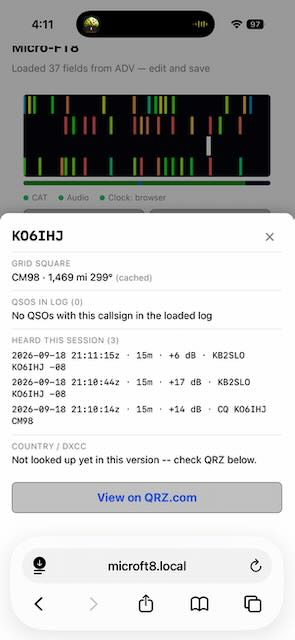
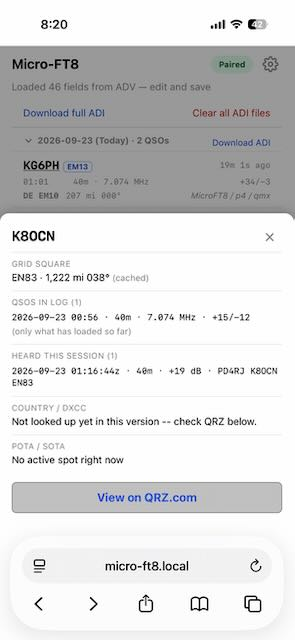
Public site: refresh screenshots and copy for the Tools tab, offline map, and callsign card, and make clear the phone is a remote the station doesn't need (B78)

diff --git a/webapp/index.html b/webapp/index.html
@@ -67,7 +67,7 @@
     grid-template-columns: 1fr 1fr;
   }
   @media (min-width: 640px) {
-    .gallery.screens { grid-template-columns: repeat(4, 1fr); }
+    .gallery.screens { grid-template-columns: repeat(3, 1fr); }
   }
   .gallery figure {
     margin: 0;
@@ -273,8 +273,10 @@
     A continuation of Wei&nbsp;AG6AQ’s
     <a href="https://github.com/wcheng95/Mini-FT8">Mini-FT8</a>
     — the same QRP FT8 portable station for QMX and QDX —
-    with a new operating model: <strong>any browser on the same Wi‑Fi is the UI</strong>
-    — phone, tablet, or laptop.
+    with a new operating model: <strong>your phone is a wireless remote, not the
+    station</strong>. Any browser on the station’s Wi‑Fi — phone, tablet, or laptop —
+    sets it up and watches it work. Close the page, use other apps, or step away from
+    the table: CQs and the auto-sequencer keep running on the station.
   </p>
   <p class="byline">Jeff Kalikstein, KB2SLO · September 2026</p>
   <p class="byline">
@@ -307,7 +309,8 @@
         <strong>Full headless</strong> —
         <strong>M5Stack Unit PoE-P4</strong> as the radio host, the same AtomS3&nbsp;Lite as
         the Wi‑Fi companion, <strong>no keyboard and no screen</strong>. All of the compute
-        fits in <strong>35&nbsp;grams</strong>. Phone, tablet, or laptop only. This path has
+        fits in <strong>35&nbsp;grams</strong>. Set up and check in from a phone, tablet, or
+        laptop; no need to keep the page open. This path has
         completed real FT8 QSOs on the air.
       </li>
     </ol>
@@ -377,48 +380,77 @@
       Join the Atom’s own Wi‑Fi network directly (no router needed — a summit has
       no camp router any more than it has cell service), or put it on your home
       or camp network instead. Either way: no app-store install, just Safari or
-      Chrome on a phone, tablet, or laptop.
+      Chrome on a phone, tablet, or laptop. Three tabs: <strong>Operate</strong> drives
+      the radio, <strong>QSOs</strong> is your log, <strong>Tools</strong> is everything
+      about operating that isn’t transmitting.
+    </p>
+    <p class="note">
+      <strong>The phone is optional once you’re set up.</strong> The station talks to the
+      phone over Wi‑Fi, but the decoding, CQ beacon, and QSO sequencing all run on the
+      station itself. Pocket the phone, switch apps, or step away from the table, and the
+      station keeps calling CQ, working callers, and logging. Open the page again to
+      catch up.
     </p>
     <div class="gallery screens" id="screen-gallery">
       <figure>
         <button type="button" class="shot" data-index="0" aria-label="Enlarge Operate screenshot">
           <img
             src="img/ui-operate.jpeg"
-            alt="Micro-FT8 Operate tab showing Connect, Tune, queue, and transmitting status"
+            alt="Operate tab calling CQ at 4.8 W, SWR 1.04, with link status, queue, and a live decode"
             width="295"
             height="640">
         </button>
-        <figcaption>Operate — connect, tune, queue, TX.</figcaption>
+        <figcaption>Operate — CQ out, power/SWR live, decodes still flowing.</figcaption>
       </figure>
       <figure>
-        <button type="button" class="shot" data-index="1" aria-label="Enlarge Decodes screenshot">
+        <button type="button" class="shot" data-index="1" aria-label="Enlarge reply screenshot">
           <img
             src="img/ui-decodes.jpeg"
-            alt="Decode list with power and SWR during TX, grid bearing and distance"
+            alt="Operate tab answering K8OCN with a report, the caller's decode flagged as addressed to me"
             width="295"
             height="640">
         </button>
-        <figcaption>Decodes — power/SWR, bearing &amp; distance.</figcaption>
+        <figcaption>A caller answers — flagged <em>→&nbsp;ME</em>, queued, bearing &amp; distance.</figcaption>
       </figure>
       <figure>
         <button type="button" class="shot" data-index="2" aria-label="Enlarge QSOs screenshot">
           <img
             src="img/ui-qsos.jpeg"
-            alt="QSOs tab with ADI download and logged contacts"
+            alt="QSOs tab grouped by day with a QSO count, per-day ADI download, grid, distance and bearing per contact"
             width="295"
             height="640">
         </button>
-        <figcaption>QSOs — ADI download, logged contacts.</figcaption>
+        <figcaption>QSOs — grouped by day, ADI per day or all.</figcaption>
       </figure>
       <figure>
-        <button type="button" class="shot" data-index="3" aria-label="Enlarge Callsign screenshot">
+        <button type="button" class="shot" data-index="3" aria-label="Enlarge callsign screenshot">
           <img
             src="img/ui-callsign.jpeg"
-            alt="Callsign info sheet with grid distance and View on QRZ.com"
+            alt="Callsign card with grid, distance, QSOs in log, heard this session, POTA/SOTA status, and View on QRZ.com"
             width="295"
             height="640">
         </button>
-        <figcaption>Callsign tap — grid info + QRZ.com.</figcaption>
+        <figcaption>Tap a callsign — grid, log history, spots, QRZ.com.</figcaption>
+      </figure>
+      <figure>
+        <button type="button" class="shot" data-index="4" aria-label="Enlarge Tools screenshot">
+          <img
+            src="img/ui-tools.jpeg"
+            alt="Tools tab with NOAA space weather: solar flux, A and K index, X-ray flux, solar wind"
+            width="295"
+            height="640">
+        </button>
+        <figcaption>Tools — space weather, and the way into the map.</figcaption>
+      </figure>
+      <figure>
+        <button type="button" class="shot" data-index="5" aria-label="Enlarge map screenshot">
+          <img
+            src="img/ui-map.jpeg"
+            alt="North America map with great-circle paths to worked grids, POTA and SOTA spots, and the grayline"
+            width="295"
+            height="640">
+        </button>
+        <figcaption>Map — QSO paths, POTA/SOTA spots, grayline.</figcaption>
       </figure>
     </div>
   </section>
@@ -427,10 +459,24 @@
     <h2>Top improvements over Mini-FT8</h2>
     <ol>
       <li>
+        <strong>The phone is a remote, not the station</strong> — Your phone talks to the
+        station over Wi‑Fi, but it doesn’t need to stay connected. Decoding, the CQ beacon,
+        and the auto-sequencer all run on the station, so the page can close, the phone
+        can sleep, and you can use other apps while it keeps working.
+      </li>
+      <li>
         <strong>Browser-based UI</strong> — Operate, queue, tune, and pull logs from
-        Safari or Chrome on a phone, tablet, or laptop. No app-store install. Callsign
-        links open <a href="https://www.qrz.com/">QRZ.com</a>; grid squares show bearing
-        and distance; ADI download (and clear-all when you need it) is a tap away.
+        Safari or Chrome on a phone, tablet, or laptop. No app-store install. Tap any
+        callsign for its grid, bearing and distance, what’s already in your log, and a
+        link to <a href="https://www.qrz.com/">QRZ.com</a>. The log groups by day with a
+        count and its own ADI download.
+      </li>
+      <li>
+        <strong>A map that doesn’t need the internet</strong> — Great-circle paths to every
+        grid you’ve worked, with coastlines, country and state borders, and the grayline.
+        The Atom serves the world outline itself, so it works on a summit with no signal.
+        When you do have a connection, live POTA and SOTA activator spots and NOAA space
+        weather come along too.
       </li>
       <li>
         <strong>Point-to-point Wi‑Fi (AP mode)</strong> — run the whole UI off the Atom’s
@@ -467,7 +513,11 @@
         ceiling Mini-FT8 hits on the S3) for better recall on busy bands.
       </li>
       <li>
-        <strong>PSKReporter</strong> — live spotting and band awareness from the browser UI.
+        <strong>PSKReporter</strong> — who is hearing you, drawn on the same map.
+      </li>
+      <li>
+        <strong>Per-band conditions</strong> — a band-by-band read alongside the space
+        weather numbers.
       </li>
       <li>
         <strong>QRZ.com realtime logging</strong> — upload completed QSOs from the browser

diff --git a/docs/ROADMAP.md b/docs/ROADMAP.md
@@ -35,7 +35,6 @@ Ship on `origin/main`. Talk through changes before a local commit (see [README.m
 | I37 | Tools: PSKReporter — who is hearing me | **Intake 2026-09-21**, Tools card ([I34](ROADMAP.md)), **explicitly not in the first slice** (operator call, same day) because it is the only one of the three with infrastructure attached. For an activator it is the highest-value question on the list — *am I actually getting out* — which is why it is worth the cost rather than dropped. Needs the Cloudflare Worker [RFC 0004](rfcs/0004-headless-web-architecture.md) §8 already designed and never built: PSKReporter returns no `Access-Control-Allow-Origin` (§8's 2026-09-10 measurement, re-confirmed 2026-09-21 against both `retrieve.pskreporter.info/query` and `cgi-bin/pskquery5.pl`), so the browser cannot call it. **Not new infrastructure** — `webapp/worker.js` is already deployed on `micro-ft8.kalikstein.com` with `run_worker_first: true` and already serves `/download/*` off R2, so this is a route added to a live Worker. §8's two constraints still bind and are the design: it **carries no secrets** (PSKReporter needs no credentials, so there is nothing to leak or rotate), and it **filters rather than relays** — one measured query, a single callsign over one hour, returned **1.25 MB of XML**, which must be parsed and re-served as the JSON subset the card needs rather than forwarded to a phone on cellular. **A second, distinct direction worth recording before it gets conflated with the above:** *uploading* our own decodes to PSKReporter as a contribution, which iFTx does. That is a different problem — PSKReporter's ingest is UDP, which a browser cannot speak at all, so it would need the Worker to relay rather than merely shim, and it raises a consent question about publishing an operator's receive log by default. Not scoped here. **Promoted Ideas → Backlog 2026-09-21**, §12 accepted — Backlog rather than Now because it is deliberately out of the first slice (§12.8). **Done-when:** a route on the existing `micro-ft8.kalikstein.com` Worker re-serves a **filtered JSON subset** for one callsign, the card shows who has heard us recently with distance and band, and the raw 1.25 MB XML is confirmed never to reach the phone — measure the response size the browser actually receives rather than assuming the filter works, since a relay that forgot to filter looks identical on screen. |
 | B77 | Store multiple WiFi networks with a connection-preference order | **Intake 2026-09-21, operator-requested, explicitly backlogged (not designed in detail yet) — companion to [B76](ROADMAP.md), which handles the single-network reconnect/fallback case.** Today `wifi_prov.c` stores exactly one SSID/password pair in NVS — there is no concept of a list. Real design work needed before this is buildable, flagged here so it isn't lost: **(1) Storage** — indexed NVS keys (`ssid0`/`pass0` .. `ssidN`/`passN`, some small cap) rather than a single delimited blob, since SSIDs and passwords can contain nearly any character and this codebase already uses numbered slots for exactly this kind of list (band config's `band0`..`band11`). Array position doubles as priority. **(2) Provisioning UI** — `provision.html`'s form currently does "Save and join", which *replaces* the one stored credential; needs to become "Add a network" instead, plus a way to view, reorder, and remove the saved list (and decide where that list is shown — `provision.html` only, or also surfaced in `app.html`'s Settings > Network). **(3) Join logic at boot** — two real options, not yet chosen: try each stored network in priority order blind (simple, but an out-of-range network costs a full join-timeout before moving to the next), or scan first (this codebase already has scan machinery for the join form's own dropdown) and try only the in-range candidates in priority order (faster, matches how real device WiFi managers behave, more to build). **(4) "Forget WiFi" semantics** become ambiguous with a list — forget-everything almost certainly survives as the nuclear option, with a per-network remove added to the new list UI. |
 | B80 | Tools: hamqsl.com per-band conditions via Worker passthrough | **Intake 2026-09-22, operator-requested for [I35](ROADMAP.md)'s space weather card, backlogged the same session (not designed in detail yet).** Operator asked for a computed per-band Good/Fair/Poor view like hamqsl.com/solar.html. Researched before proposing anything: no citable public formula exists for this — not even N0NBH's own hamqsl algorithm is documented (his FAQ describes it only as accounting for "indices, background radiation, day/night... propagation and noise," no formula given), the real physics-based methods (ITU-R P.533, VOACAP) are full propagation-modeling engines with ionospheric coefficients and path geometry, well beyond a browser card, and the SFI-threshold tables circulating on ham forums are uncited folklore. **The actual answer turned out to be a transport problem, not a knowledge problem:** hamqsl.com's `solarxml.php` carries a genuine `<calculatedconditions>` block — real, already-computed Good/Fair/Poor per band group (`80m-40m`/`30m-20m`/`17m-15m`/`12m-10m`) per day/night — confirmed by fetching it directly. It just has no `Access-Control-Allow-Origin` header (§12.3's original finding, re-confirmed), so the browser can't reach it. Fix is the same shim §12.8 already anticipated for PSKReporter ([I37](ROADMAP.md)): a route on the Worker already deployed at `micro-ft8.kalikstein.com` fetches `solarxml.php` server-side (no CORS restriction there), extracts just `<calculatedconditions>`, and re-serves it as small JSON — a route on a live Worker, not new infrastructure, same framing as I37's own. **One real difference from every other source in this slice, decided rather than assumed away:** hamqsl.com is a free service run by one individual (N0NBH), not an institution like NOAA or a documented API like POTA's — no ToS or `robots.txt` restriction found, but the FAQ's own tone ("please DO NOT change the code... or the free service WILL go away") reads as informal, personal-scale hosting. Proxying it on a schedule puts our traffic on one volunteer's free service in a way nothing else in this slice does — **operator accepted that tradeoff 2026-09-22** and asked for the real feed rather than an invented equivalent. Proposed UI shape from the same conversation: the per-band table becomes the space weather card's **default** view, with the raw NOAA numbers already shipped (SFI/A-index/K-index/X-ray/wind/NOAA scale) moved behind a tap-to-expand rather than shown by default. **Done-when:** a Worker route re-serves hamqsl's `<calculatedconditions>` as small JSON, with size and refresh interval measured and chosen to be polite to a volunteer-run service rather than assumed; the space weather card's default view is the per-band Good/Fair/Poor table (hamqsl's own four band groups, day/night); the raw numbers already shipped are reachable behind a tap on the same card; and the card degrades visibly (§12.2) if the Worker or the upstream feed is unreachable, same as every other online card in Tools. |
-| B78 | Refresh the public site's UI screenshots | **Intake 2026-09-21, operator-requested.** `webapp/img/ui-*.jpeg` (Operate, Decodes, QSOs, Callsign — `index.html`'s "In the browser" gallery) predate B74's header redesign: a local preview confirmed they're still showing the old flat Connect/Tune row with no title bar, no pairing badge, no gear icon. Needs real device captures, not synthetic ones — these are marketing screenshots with real decode/QSO data already in them, and reproducing that credibly with fabricated data would look obviously fake next to genuine field captures. Done-when: four fresh screenshots from a real phone against current `app.html`, same crop/aspect convention the gallery CSS expects (9:19.5, top-aligned). |
 | B70 | Sidekick: deliberate dual-core task placement (currently none) | **Intake 2026-09-20**, raised by the operator stepping back from this session's MVP-era sidekick work to ask whether/how the two ESP32-S3 cores are actually being used. Mapped from code, not assumed: **nothing today is a deliberate dual-core architecture.** Pinned: `app_main()` itself (`CONFIG_ESP_MAIN_TASK_AFFINITY_CPU0`) — and it never returns; after synchronous setup (`porta_beacon_init()`, `host_link_start()`, `wifi_prov_start()`, `button_init()`) it becomes an infinite loop doing the beacon send, heartbeat log, and button-press check, forever, on CPU0 — plus mDNS (also CPU0) and the WiFi driver's own internal task (CPU0, ESP-IDF's standard default). Unpinned (`tskNO_AFFINITY`, floats at the scheduler's discretion): `porta_rx_task` (Port A UART RX, `host_link.c`), `scan_keepfresh_task` (periodic background WiFi rescan, `wifi_prov.c`), the lwIP TCP/IP task, and the HTTP server's own worker task (never given a `core_id`). Two symptoms already hit this same session are consistent with CPU0 contention between this floating work and the pinned beacon/heartbeat loop, though neither was root-caused to it specifically: the `no ACK for verb 0x01/0x06` warnings during ordinary `app.html` polling, and the AP httpd needing an 8 KB stack bump just to survive its own handlers. **Proposed design, not yet built:** pin the latency-sensitive work (the `app_main` loop, already CPU0, plus `porta_rx_task`) to one core, and deliberately move the bursty/latency-tolerant work (HTTP server, DNS, background scan) to the other — same philosophy the ADV's own `qmx_transport.cpp` already uses at the task level (`usb_lib_task`/`uac_lib_task`, "must never block" vs "can block"), one level up, at the core rather than just the task. **The actual blocking finding, and why this is not a simple `xTaskCreatePinnedToCore` swap:** `host_link.c`'s Port A reply-gathering state — `s_last_reply_verb`, `s_last_reply_ok`, `s_last_reply_reason`, and the `s_config_json`/`s_file_list_json`/`s_file_entries_json` buffers `wait_action_reply()` polls — is shared between `porta_rx_task` (writer, as PORTA replies arrive) and every HTTP handler that calls `wait_action_reply()` (reader), synchronized only by `volatile` plus a 25 ms busy-poll loop. No mutex, no semaphore. This is already a latent, scheduler-luck-dependent race today, since nothing stops the two tasks from landing on different cores right now — deliberately pinning them to *always* differ would turn an occasional risk into a guaranteed one on every request, unless fixed first. The fix is not invented: `s_lock`, a real `SemaphoreHandle_t` mutex, already exists in this exact file and already protects the ring buffer (`s_ring`) a few functions away — the reply-gathering state needs the same protection extended to it, not a new mechanism. **Done-when:** `s_lock` (or an equivalent) covers every read/write of the reply-gathering state; `app_main`'s loop and `porta_rx_task` are explicitly pinned to one core and HTTP/DNS/scan explicitly pinned to the other; a full bench session (config polling, a real QSO logged, a file list/read, AP mode active) shows no new `no ACK`/timeout symptoms and no crash, ideally with the existing `no ACK` rate compared before/after to see whether CPU0 contention was actually a contributor or a red herring. |
 | B68 | poe_p4: "Connecting to QMX..." UI indicator during USB enumeration wait | **Intake 2026-09-20**, follow-on to B67. B67 root-caused the P4's ~10.5-11.5s post-connect delay before the QMX's USB CDC interface responds to the QMX's own USB stack boot time — confirmed hardware fact, not fixable in this codebase. What's still rough is the operator experience during that wait: right now there is no feedback at all between plugging in the QMX and CAT/audio coming up, which reads as a hang rather than a known, bounded wait. Reuse the existing `PORTA_EVT_USB_STATUS` banner machinery (`porta_emit_usb_status()`, already wired for poe_p4 per the matching TEST_PLAN row) rather than inventing a second notification path — likely a distinct "connecting" state alongside the existing attach/detach ones, shown from the moment `try_open()` starts polling until CDC actually opens. Done-when: on the P4's own screen (and/or the phone app if it's listening to the same event), plugging in the QMX shows a "connecting..." state immediately and it clears the moment CAT/audio come up, rather than several seconds of apparent silence. |
 | B67 | poe_p4: root-cause "initial QMX USB connection takes several seconds" | **Intake 2026-09-19**, field-found while bench-testing this session's `PORTA_EVT_USB_STATUS` banner (I28d follow-on) on the P4 board — the banner itself works, and in doing so made a pre-existing, previously-invisible delay perceptible for the first time. **Already ruled out**: `try_open_uac()`'s settle-retry loop (`kUacStartSettleMs`=400 × `kUacStartMaxAttempts`=8) — one bench log shows CDC open to UAC streaming in 410ms, one clean attempt, no retry warnings. **Prime remaining suspect, now instrumented but not yet measured**: `try_open()` (CDC) polls `cdc_acm_host_open()` at ~1 Hz with a completely silent failure path — no log, no attempt count, no error code — so there was no way to see how many 1s-spaced attempts preceded the one that succeeded. Added this session: an attempt counter, a first-attempt timestamp, and a throttled `ESP_LOGI` (first attempt of a streak always logs, then every 10th, so an ordinary "QMX simply not plugged in" idle period doesn't spam the log at 1 Hz forever) — see `qmx_transport.cpp`'s `try_open()`. **Deliberately not touched**: none of the actual timing/retry constants — every one in this file is a documented fix for a real crash (wedged control pipes, leaked interface claims, watchdog reboot loops from retry storms), and this session had no P4 board in hand to safely re-tune them against. Done-when: a bench capture of a slow initial connection shows the new `"QMX CDC-ACM opened ... -- N attempt(s), M ms since first"` line (and, if N>1, the `ESP_LOGI` failure lines with `esp_err_to_name()`'s reason) — that answers whether this is the QMX itself needing time after physical connection before it will answer (a hardware fact to design around, not a bug) or something else (worth re-measuring against a stopwatch before assuming the retry loop is the cause at all). **Measured 2026-09-20, QMX already connected before P4 boot: N=12, 11070ms, deterministic across two runs (~300ms apart).** Two more probes narrowed it further: `new_dev_cb` (earliest normal client notification) never fired at all; `usb_host_device_addr_list_fill()` polled directly — the same raw primitive `cdc_acm` itself uses, bypassing the CDC driver layer — shows the device address list stays empty until **11465ms**, below anything in this codebase or in ESP-IDF's documented USB-host Kconfig timing constants (which sum to a few hundred ms, not 11s; checked, not assumed). **Root-caused 2026-09-20 with a third bench run:** P4 booted and left idle 15s (own USB host stack already stable, `try_open()` already polling the whole time), then the QMX was plugged in — address list went non-empty 10574ms later, CDC opened 10910ms later, matching runs 1-2 almost exactly despite the P4's 15s head start. **That kills the PoE-VBUS-ramp hypothesis** — a warm, idle, already-stable host should connect fast if the P4 side were the bottleneck, and it didn't. The delay is on the QMX's own side: real elapsed time between it physically receiving USB connection and its own USB stack responding to enumeration, a hardware/firmware fact about the QMX to design around, not a bug in this codebase. **Row closes as answered — no fix to make here.** See `docs/TEST_PLAN.md`'s matching row for all three measurements. What's left is optional UX only: a "connecting..." indicator during the ~11s wait, reusing the existing `PORTA_EVT_USB_STATUS` banner machinery — new work, not a continuation of this investigation, and not scoped here. |
